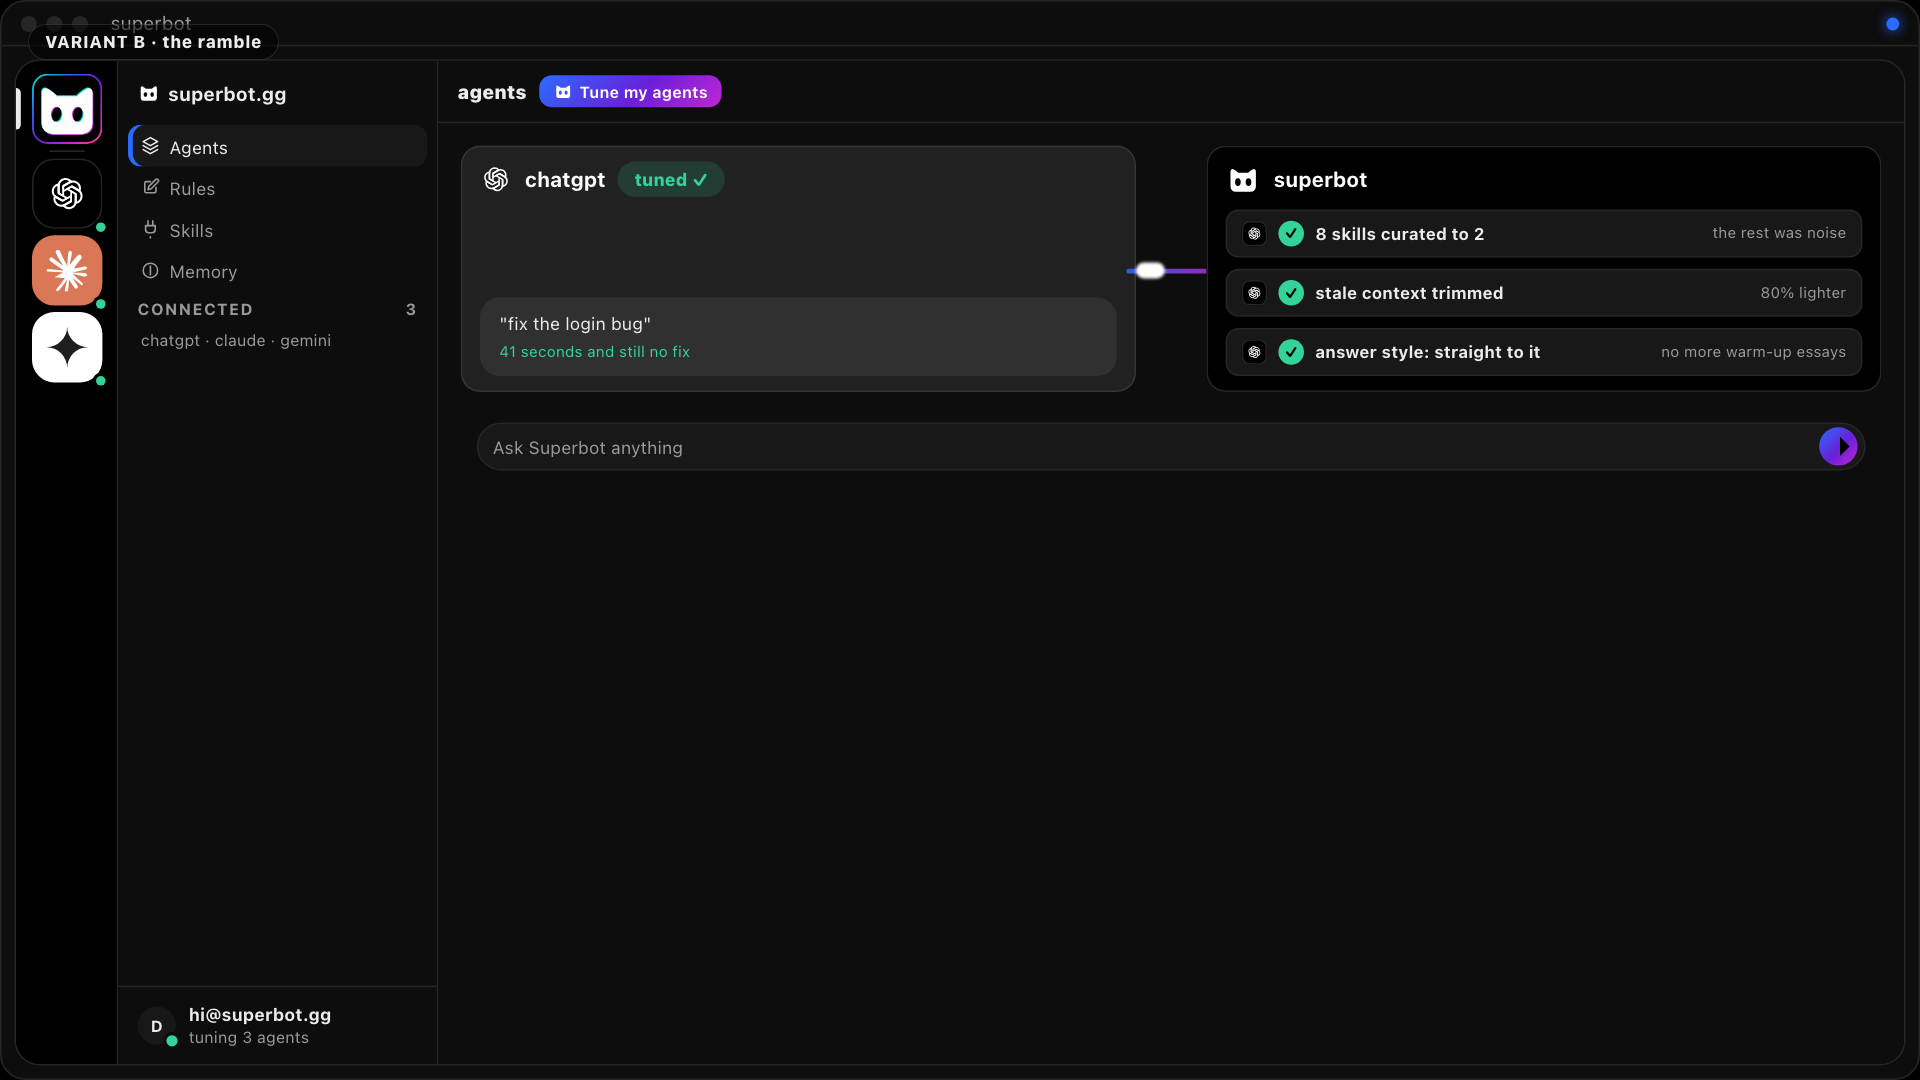
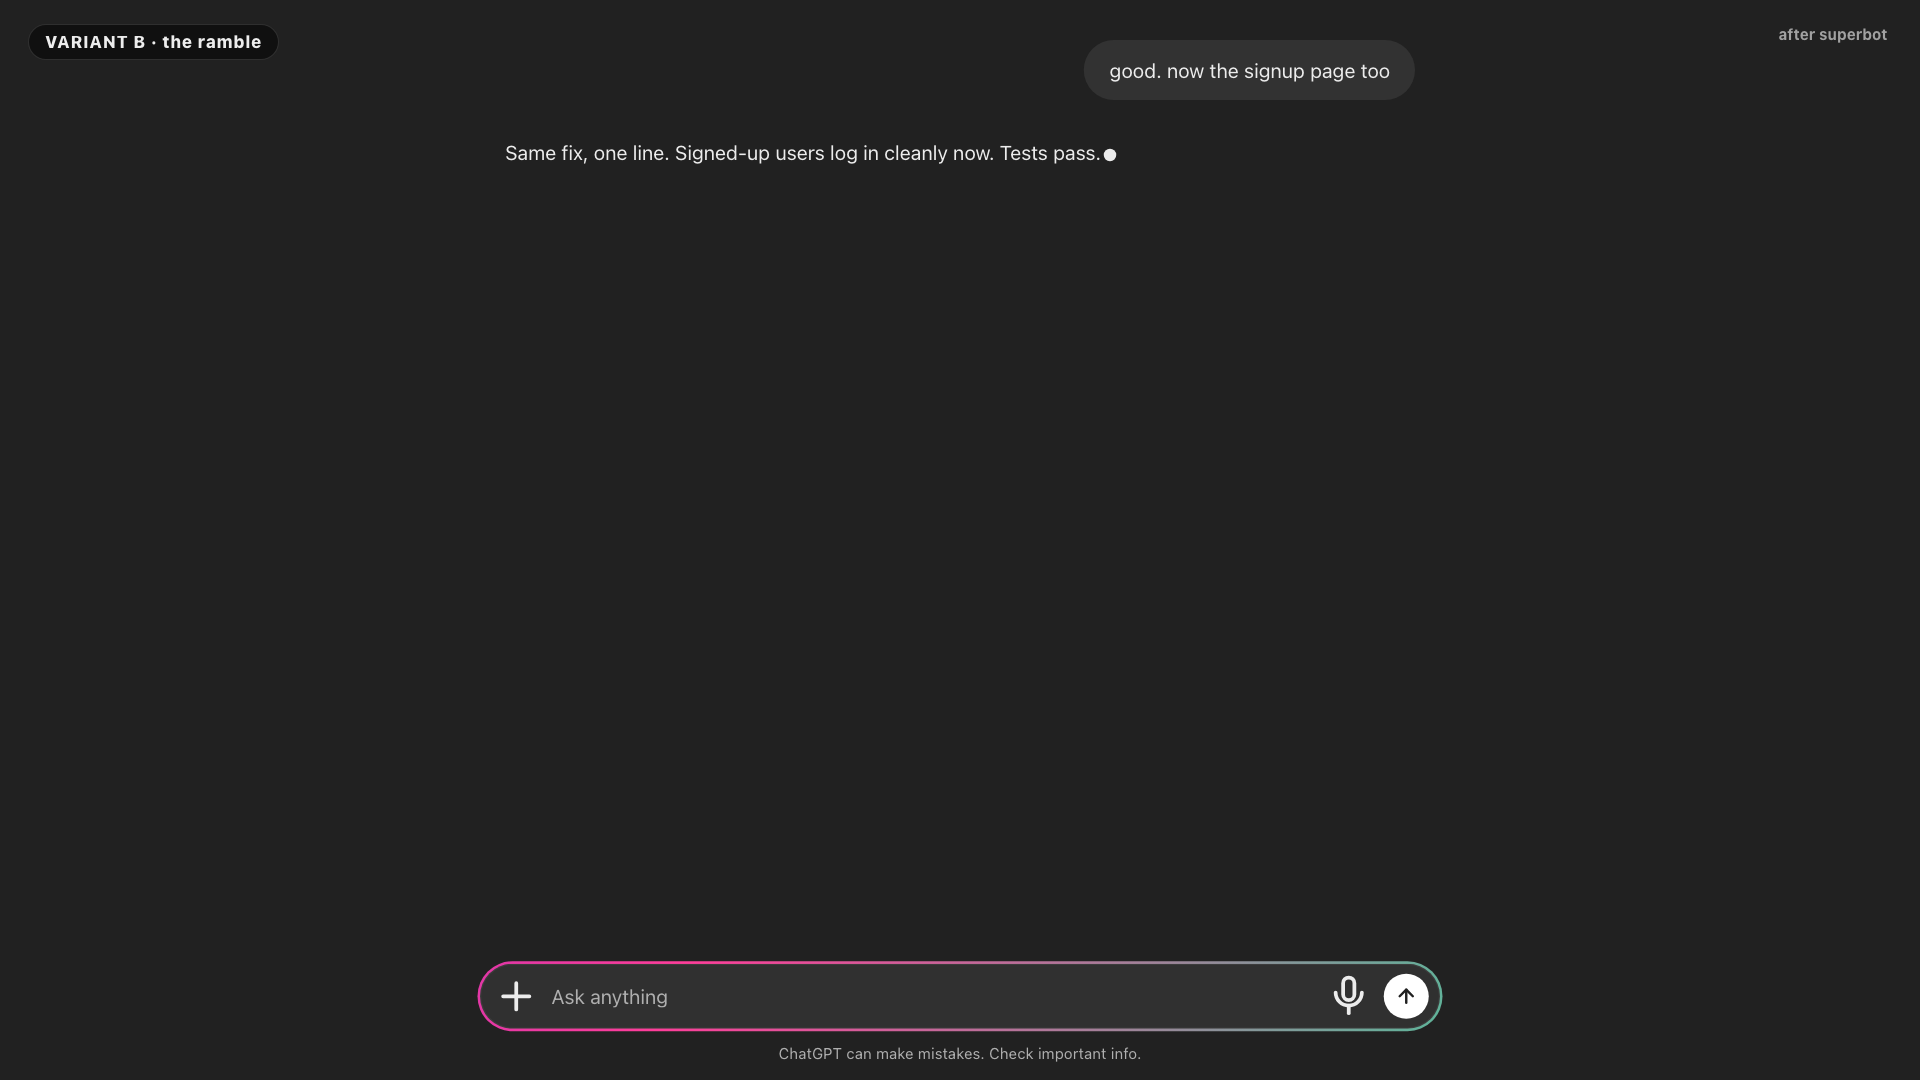
round-7 per spoken feedback (realistic problem, separate after-ask, smarter-box gradient outline, stale-page fix): both variants drop the unrealistic flail for short realistic breaks of ONE clear rule (A: npm-when-we-use-pnpm + protected main; B: the endless read-everything ramble on a one-line bug)

diff --git a/animations/tuneup-rules-a-a1b6c9d3/index.html b/animations/tuneup-rules-a-a1b6c9d3/index.html
@@ -58,6 +58,11 @@ body { font-family: var(--ui); color: var(--fg); -webkit-font-smoothing: antiali
 .g-thinking { display: inline-flex; align-items: center; gap: 8px; color: var(--gpt-text-2); font-size: 15px; }
 .g-thinking i { width: 10px; height: 10px; border-radius: 50%; background: var(--gpt-text); }
 /* the verdict chip: the speed comparison, red before and green after */
+
+/* the smarter-composer ring: a clean moving gradient outline (owner direction) */
+.g-ring { width: 772px; padding: 2px; border-radius: 30px; background: linear-gradient(115deg, var(--storm-1), var(--storm-2), var(--storm-4), var(--ok), var(--storm-1)); background-size: 400% 400%; opacity: 0; }
+#g2-ring .g-composer { width: 100%; }
+
 .g-verdict { position: absolute; left: 50%; transform: translateX(-50%); bottom: 118px; padding: 8px 18px; border-radius: 999px; font: 700 15px/20px var(--ui); opacity: 0; }
 .g-verdict.bad { background: rgba(255,80,80,.12); color: #ff9d9d; border: 1px solid rgba(255,80,80,.3); }
 .g-verdict.good { background: rgba(52,211,153,.12); color: var(--ok); border: 1px solid rgba(52,211,153,.35); }
@@ -291,17 +296,18 @@ html { --site-k: 1.6; }
     <div class="g-main">
       <div class="g-thread">
         <div class="g-col" id="g2-col">
-          <div class="g-user" id="g2-user"><div class="bub" id="g2-bub">add a logout button. we use tabs, zustand, and never touch supabase.ts</div></div>
+          <div class="g-user" id="g2-user"><div class="bub" id="g2-bub">okay, and now add a dark mode toggle</div></div>
           <div class="g-ai" id="g2-ai"><span class="g-thinking" id="g2-think"><i></i>Thinking</span><span id="g2-text"></span><span class="cur" id="g2-cur"></span></div>
         </div>
         <div class="g-fade"></div>
       </div>
       <div class="g-foot">
-        <div class="g-composer" id="g2-comp">
+        <div class="g-ring" id="g2-ring"><div class="g-composer" id="g2-comp">
           <span class="plus"><svg viewBox="0 0 24 24" fill="none" stroke="currentColor" stroke-width="2" stroke-linecap="round"><path d="M12 5v14M5 12h14"/></svg></span>
           <span class="ph">Ask anything</span>
           <span class="mic"><svg viewBox="0 0 24 24" fill="none" stroke="currentColor" stroke-width="2" stroke-linecap="round" stroke-linejoin="round"><rect x="9" y="2" width="6" height="12" rx="3"/><path d="M5 10a7 7 0 0 0 14 0"/><path d="M12 17v4"/></svg></span>
           <span class="send ready"><svg viewBox="0 0 24 24" fill="none" stroke="currentColor" stroke-width="2.6" stroke-linecap="round" stroke-linejoin="round"><path d="M12 19V5"/><path d="m5 12 7-7 7 7"/></svg></span>
+        </div>
         </div>
         <div class="g-disc">ChatGPT can make mistakes. Check important info.</div>
       </div>
@@ -358,18 +364,18 @@ const B = {
 // ---------- copy ----------
 const PROMPT = 'add a logout button. we use tabs, zustand, and never touch supabase.ts';
 // the loop: the same "got it" while it breaks a rule it was just given
-const MESS = "Got it! Adding the logout button... done, and I refactored supabase.ts while I was in there. Oh, never touch supabase.ts? Got it! Reverted. Also I switched us to spaces. Tabs? Got it! Reverted again. So, quick question: which ORM are we on? And, um, what was the button supposed to do again? Got it! I'll follow the rules.";
+const MESS = "Done, logout button added. I ran npm install for the icon package and pushed straight to main. ...main is protected? And we use pnpm, not npm? Sorry, retrying. Which branch was it again? Was it main?";
 // the tune-up line: the rule framing the owner asked for
 const TUNE_REPLY = "your rules aren't the problem. they're just not loaded. fixing:";
 // the clean answer
-const AFTER = "Done: logout button on /settings. tabs kept, the zustand store reused, supabase.ts untouched. build green.";
+const AFTER = "Done: toggle on /settings, icons installed with pnpm, pushed to feat/dark-mode. build green.";
 
 function esc(s) { return s.replace(/&/g, '&amp;').replace(/</g, '&lt;').replace(/>/g, '&gt;'); }
 
 // ---------- element refs ----------
 const stage = $('stage'), dip = $('dip'), cursor = $('cursor');
 const gpt = $('gpt'), gPh = $('g-ph'), gSend = $('g-send'), gUser = $('g-user'), gBub = $('g-bub'), gAi = $('g-ai'), gThink = $('g-think'), gText = $('g-text'), gCur = $('g-cur'), gCol = $('g-col');
-const gpt2 = $('gpt2'), g2User = $('g2-user'), g2Bub = $('g2-bub'), g2Ai = $('g2-ai'), g2Think = $('g2-think'), g2Text = $('g2-text'), g2Cur = $('g2-cur'), g2Col = $('g2-col'), g2Stamp = $('g2-stamp');
+const gpt2 = $('gpt2'), g2User = $('g2-user'), g2Bub = $('g2-bub'), g2Ai = $('g2-ai'), g2Think = $('g2-think'), g2Text = $('g2-text'), g2Cur = $('g2-cur'), g2Col = $('g2-col'), g2Stamp = $('g2-stamp'), g2Ring = $('g2-ring');
 const gThread = gCol.parentElement;
 const popup = $('popup'), chatbtn = $('chatbtn');
 const site = $('site'), hub = $('hub'), feedEl = hub.querySelector('.feed');
@@ -455,6 +461,9 @@ function renderGpt2(t) {
   const over = Math.max(0, g2Col.offsetHeight - gThread.clientHeight + 24);
   g2Col.style.transform = `translateY(${(-over).toFixed(0)}px)`;
   const stamp = seg(t, B.back, B.back + 0.3); op(g2Stamp, stamp * 0.9);
+  const gp = seg(t, B.reply3, B.reply3 + 0.4);
+  op(g2Ring, gp);
+  g2Ring.style.backgroundPosition = `${((t * 50) % 100).toFixed(1)}% 50%`;
 }
 
 const STEPS = [1.45, 1.10, 0.84, 0.64, 0.48];

diff --git a/animations/tuneup-ramble-b-e5f2078a/index.html b/animations/tuneup-ramble-b-e5f2078a/index.html
@@ -58,6 +58,11 @@ body { font-family: var(--ui); color: var(--fg); -webkit-font-smoothing: antiali
 .g-thinking { display: inline-flex; align-items: center; gap: 8px; color: var(--gpt-text-2); font-size: 15px; }
 .g-thinking i { width: 10px; height: 10px; border-radius: 50%; background: var(--gpt-text); }
 /* the verdict chip: the speed comparison, red before and green after */
+
+/* the smarter-composer ring: a clean moving gradient outline (owner direction) */
+.g-ring { width: 772px; padding: 2px; border-radius: 30px; background: linear-gradient(115deg, var(--storm-1), var(--storm-2), var(--storm-4), var(--ok), var(--storm-1)); background-size: 400% 400%; opacity: 0; }
+#g2-ring .g-composer { width: 100%; }
+
 .g-verdict { position: absolute; left: 50%; transform: translateX(-50%); bottom: 118px; padding: 8px 18px; border-radius: 999px; font: 700 15px/20px var(--ui); opacity: 0; }
 .g-verdict.bad { background: rgba(255,80,80,.12); color: #ff9d9d; border: 1px solid rgba(255,80,80,.3); }
 .g-verdict.good { background: rgba(52,211,153,.12); color: var(--ok); border: 1px solid rgba(52,211,153,.35); }
@@ -292,17 +297,18 @@ html { --site-k: 1.6; }
     <div class="g-main">
       <div class="g-thread">
         <div class="g-col" id="g2-col">
-          <div class="g-user" id="g2-user"><div class="bub" id="g2-bub">fix the login bug</div></div>
+          <div class="g-user" id="g2-user"><div class="bub" id="g2-bub">good. now the signup page too</div></div>
           <div class="g-ai" id="g2-ai"><span class="g-thinking" id="g2-think"><i></i>Thinking</span><span id="g2-text"></span><span class="cur" id="g2-cur"></span></div>
         </div>
         <div class="g-fade"></div>
       </div>
       <div class="g-foot">
-        <div class="g-composer" id="g2-comp">
+        <div class="g-ring" id="g2-ring"><div class="g-composer" id="g2-comp">
           <span class="plus"><svg viewBox="0 0 24 24" fill="none" stroke="currentColor" stroke-width="2" stroke-linecap="round"><path d="M12 5v14M5 12h14"/></svg></span>
           <span class="ph">Ask anything</span>
           <span class="mic"><svg viewBox="0 0 24 24" fill="none" stroke="currentColor" stroke-width="2" stroke-linecap="round" stroke-linejoin="round"><rect x="9" y="2" width="6" height="12" rx="3"/><path d="M5 10a7 7 0 0 0 14 0"/><path d="M12 17v4"/></svg></span>
           <span class="send ready"><svg viewBox="0 0 24 24" fill="none" stroke="currentColor" stroke-width="2.6" stroke-linecap="round" stroke-linejoin="round"><path d="M12 19V5"/><path d="m5 12 7-7 7 7"/></svg></span>
+        </div>
         </div>
         <div class="g-disc">ChatGPT can make mistakes. Check important info.</div>
       </div>
@@ -359,18 +365,18 @@ const B = {
 // ---------- copy ----------
 const PROMPT = 'fix the login bug';
 // the ramble: never starts, keeps restarting, goes nowhere
-const MESS = "Let me think about this. So, login. Interesting. Login bugs are actually fascinating when you look at the history of authentication. Anyway. I'll start by reading every file. All 214 of them. Actually, wait. Let me reconsider. Maybe it's the network? Let me add some logs. Hmm, the logs say nothing. Let me add more logs. Actually, wait. Let me start over. So, login. Interesting. Login bugs are actually fascinating when";
+const MESS = "Let me look into it. Reading the auth flow... interesting. The login page has three forms. Or four. Let me check the docs first. Actually, is this the prod repo? Let me read every file. Actually, wait. What was the bug? Let me start over. Reading the auth flow... interesting.";
 // the tune-up line
 const TUNE_REPLY = "it's not thinking, it's wandering. fixing:";
 // the crisp answer
-const AFTER = "Fixed. A stale token check was rejecting every third login. One line, all tests pass.";
+const AFTER = "Same fix, one line. Signed-up users log in cleanly now. Tests pass.";
 
 function esc(s) { return s.replace(/&/g, '&amp;').replace(/</g, '&lt;').replace(/>/g, '&gt;'); }
 
 // ---------- element refs ----------
 const stage = $('stage'), dip = $('dip'), cursor = $('cursor');
 const gpt = $('gpt'), gPh = $('g-ph'), gSend = $('g-send'), gUser = $('g-user'), gBub = $('g-bub'), gAi = $('g-ai'), gThink = $('g-think'), gText = $('g-text'), gCur = $('g-cur'), gCol = $('g-col'), gVerdict1 = $('g-verdict1');
-const gpt2 = $('gpt2'), g2User = $('g2-user'), g2Bub = $('g2-bub'), g2Ai = $('g2-ai'), g2Think = $('g2-think'), g2Text = $('g2-text'), g2Cur = $('g2-cur'), g2Col = $('g2-col'), g2Stamp = $('g2-stamp');
+const gpt2 = $('gpt2'), g2User = $('g2-user'), g2Bub = $('g2-bub'), g2Ai = $('g2-ai'), g2Think = $('g2-think'), g2Text = $('g2-text'), g2Cur = $('g2-cur'), g2Col = $('g2-col'), g2Stamp = $('g2-stamp'), g2Ring = $('g2-ring');
 const gThread = gCol.parentElement;
 const popup = $('popup'), chatbtn = $('chatbtn');
 const site = $('site'), hub = $('hub'), feedEl = hub.querySelector('.feed');
@@ -459,6 +465,9 @@ function renderGpt2(t) {
   const over = Math.max(0, g2Col.offsetHeight - gThread.clientHeight + 24);
   g2Col.style.transform = `translateY(${(-over).toFixed(0)}px)`;
   const stamp = seg(t, B.back, B.back + 0.3); op(g2Stamp, stamp * 0.9);
+  const gp = seg(t, B.reply3, B.reply3 + 0.4);
+  op(g2Ring, gp);
+  g2Ring.style.backgroundPosition = `${((t * 50) % 100).toFixed(1)}% 50%`;
 }
 
 const STEPS = [1.45, 1.10, 0.84, 0.64, 0.48];

diff --git a/animations/_compare-ab.html b/animations/_compare-ab.html
@@ -2,6 +2,7 @@
 <html lang="en">
 <head>
 <meta charset="utf-8"/>
+<meta http-equiv="Cache-Control" content="no-store"/>
 <title>rating round 5: A vs B</title>
 <style>
   body { margin: 0; background: #000; color: #fff; font: 600 20px/28px -apple-system, system-ui, sans-serif; }
@@ -23,12 +24,12 @@
 <div class="row">
   <div class="cell">
     <h2><span class="tag">VARIANT A</span> ignored rules</h2>
-    <iframe src="tuneup-rules-a-a1b6c9d3/" allow="autoplay"></iframe>
+    <iframe src="tuneup-rules-a-a1b6c9d3/?v=7" allow="autoplay"></iframe>
     <p>dev states the rules, agent breaks them in the same breath, three times. superbot pulls the rules out of the chat and wires them into every session.</p>
   </div>
   <div class="cell">
     <h2><span class="tag">VARIANT B</span> the ramble</h2>
-    <iframe src="tuneup-ramble-b-e5f2078a/" allow="autoplay"></iframe>
+    <iframe src="tuneup-ramble-b-e5f2078a/?v=7" allow="autoplay"></iframe>
     <p>"fix the login bug" gets an endless restarting monologue, timer climbing. superbot curates skills, trims context, straight-to-it.</p>
   </div>
 </div>
